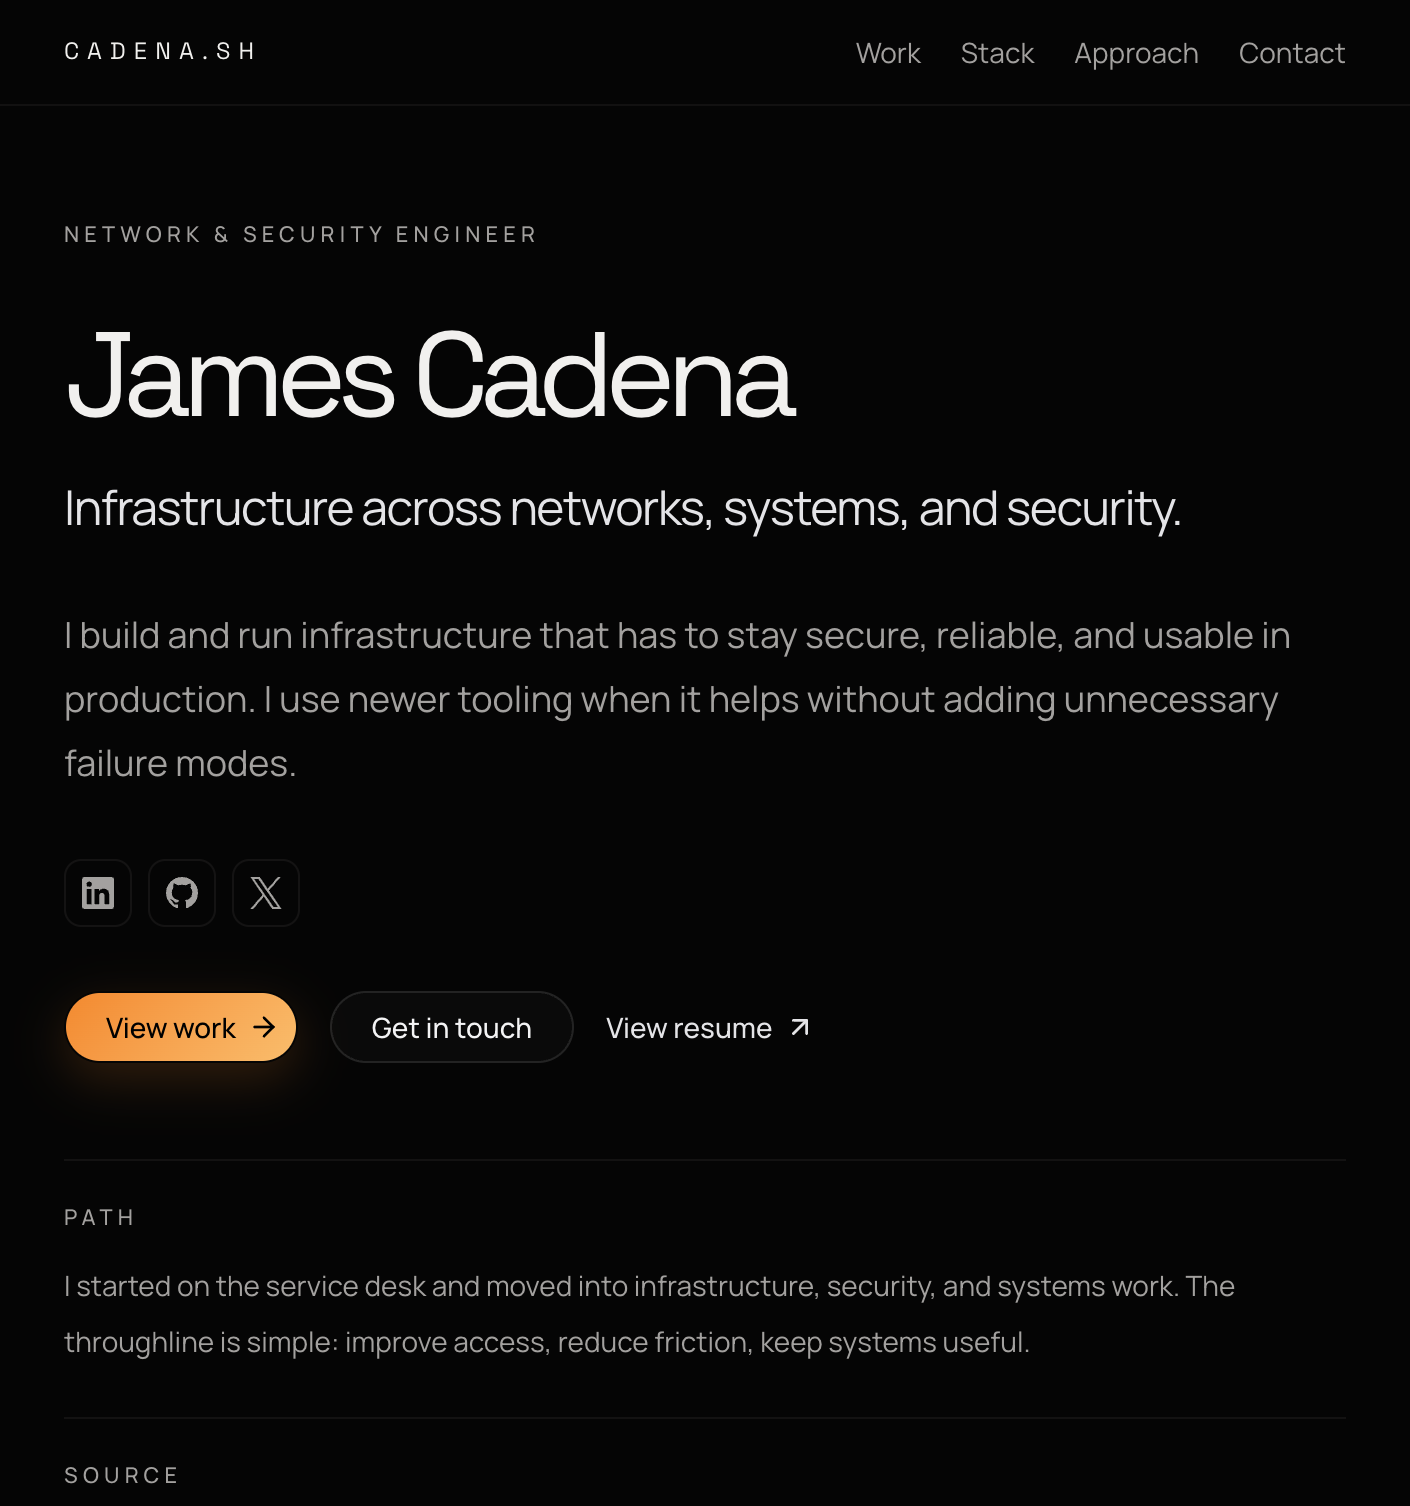
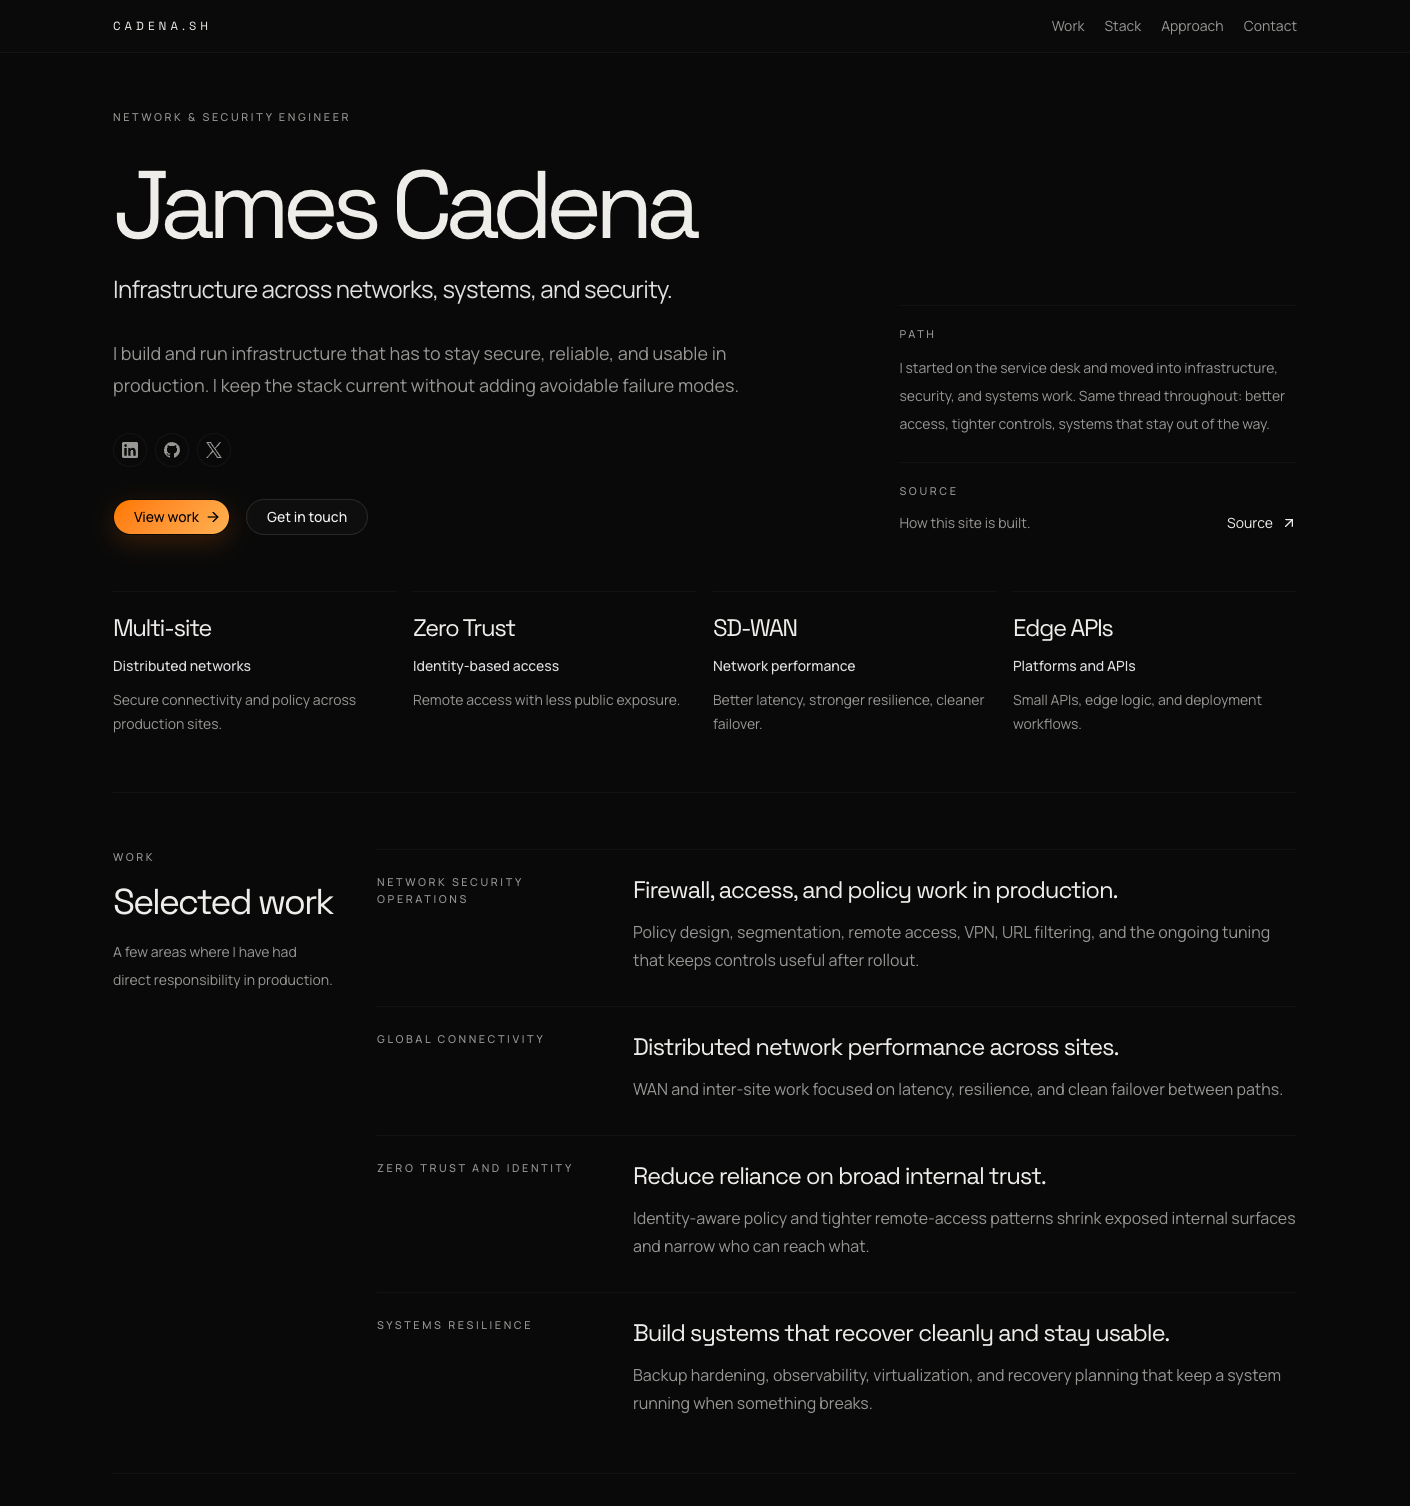
update README screenshot and stack notes
Refresh README screenshot and document current stack notes.

diff --git a/README.md b/README.md
@@ -1,6 +1,6 @@
 # cadena.sh
 
-Source for my personal site, built for [james.cadena.sh](https://james.cadena.sh). I'm a network and security engineer, so the infra choices here (1Password-backed secrets, a pinned `op` CLI, Vercel BotID on the contact form, a nonce-based CSP) reflect that background more than the frontend does. It's one page with a contact form.
+Source for my personal site, built for [james.cadena.sh](https://james.cadena.sh). I'm a network and security engineer, so the infra choices here (1Password-backed secrets, a pinned `op` CLI, Vercel BotID on the contact form, a nonce-based CSP, and a tiny edge POP status chip) reflect that background more than the frontend does. It's one page with a contact form.
 
 ![cadena.sh hero](./docs/screenshots/hero-desktop.png)
 
@@ -10,7 +10,9 @@ Source for my personal site, built for [james.cadena.sh](https://james.cadena.sh
 - Tailwind CSS v4, shadcn/ui
 - Resend for the contact form
 - Vercel BotID for abuse protection
+- Vercel Analytics + Speed Insights
 - Nonce-based CSP via a Next.js proxy
+- `/api/pop` footer chip for edge region, latency, and protocol visibility
 - Vitest + Testing Library
 - GitHub Actions CI + Dependabot
 - 1Password Environments for build-time and runtime secrets
